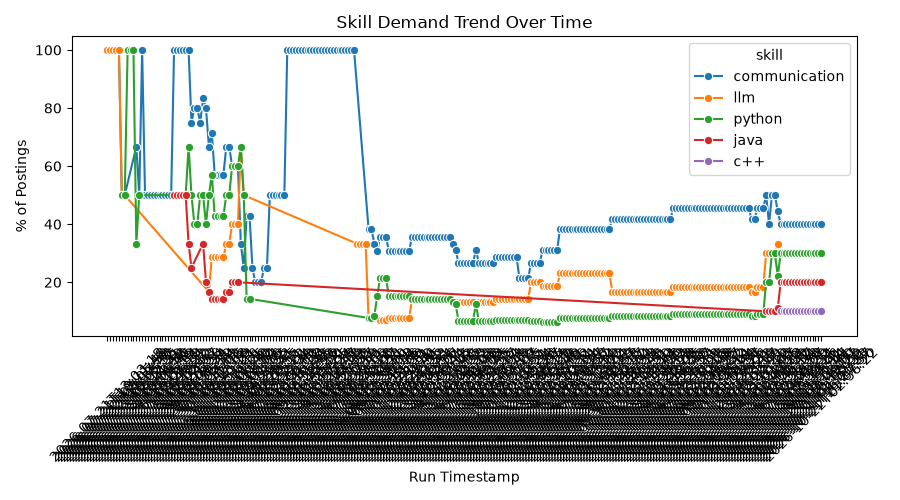
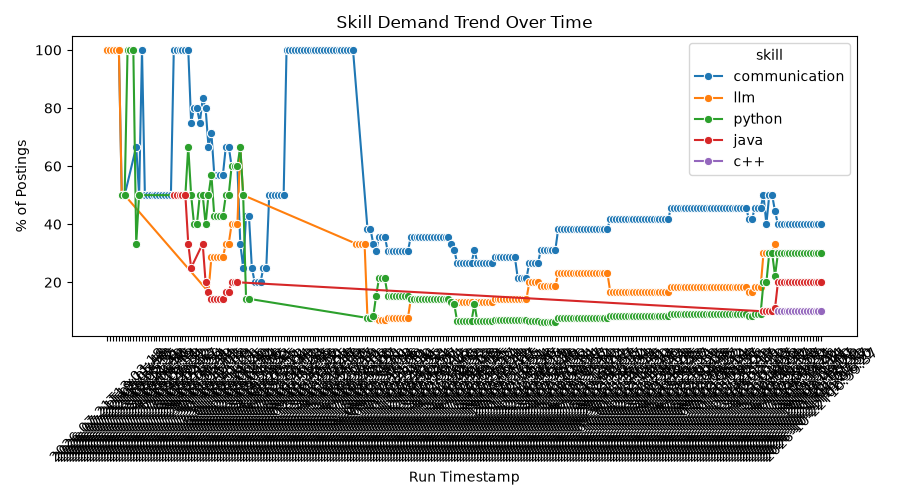
chore: update AI/data job skill tracking 2026-10-22T10:59:38Z

diff --git a/reports/summary_report.md b/reports/summary_report.md
@@ -2,9 +2,9 @@
 
 
 
-_Generated: 2026-10-22T02:56:23_
+_Generated: 2026-10-22T10:59:38_
 
-_Based on 273 accumulated run(s)_
+_Based on 274 accumulated run(s)_
 
 
 
@@ -136,4 +136,4 @@ _No data._
 
 ## Historical Trend
 
-Skill demand over time (last 273 run(s)): `/home/runner/work/CAREER-TRANSITION-JOB-SCRAPER/CAREER-TRANSITION-JOB-SCRAPER/history/figures/skill_demand_trend.png`
+Skill demand over time (last 274 run(s)): `/home/runner/work/CAREER-TRANSITION-JOB-SCRAPER/CAREER-TRANSITION-JOB-SCRAPER/history/figures/skill_demand_trend.png`
